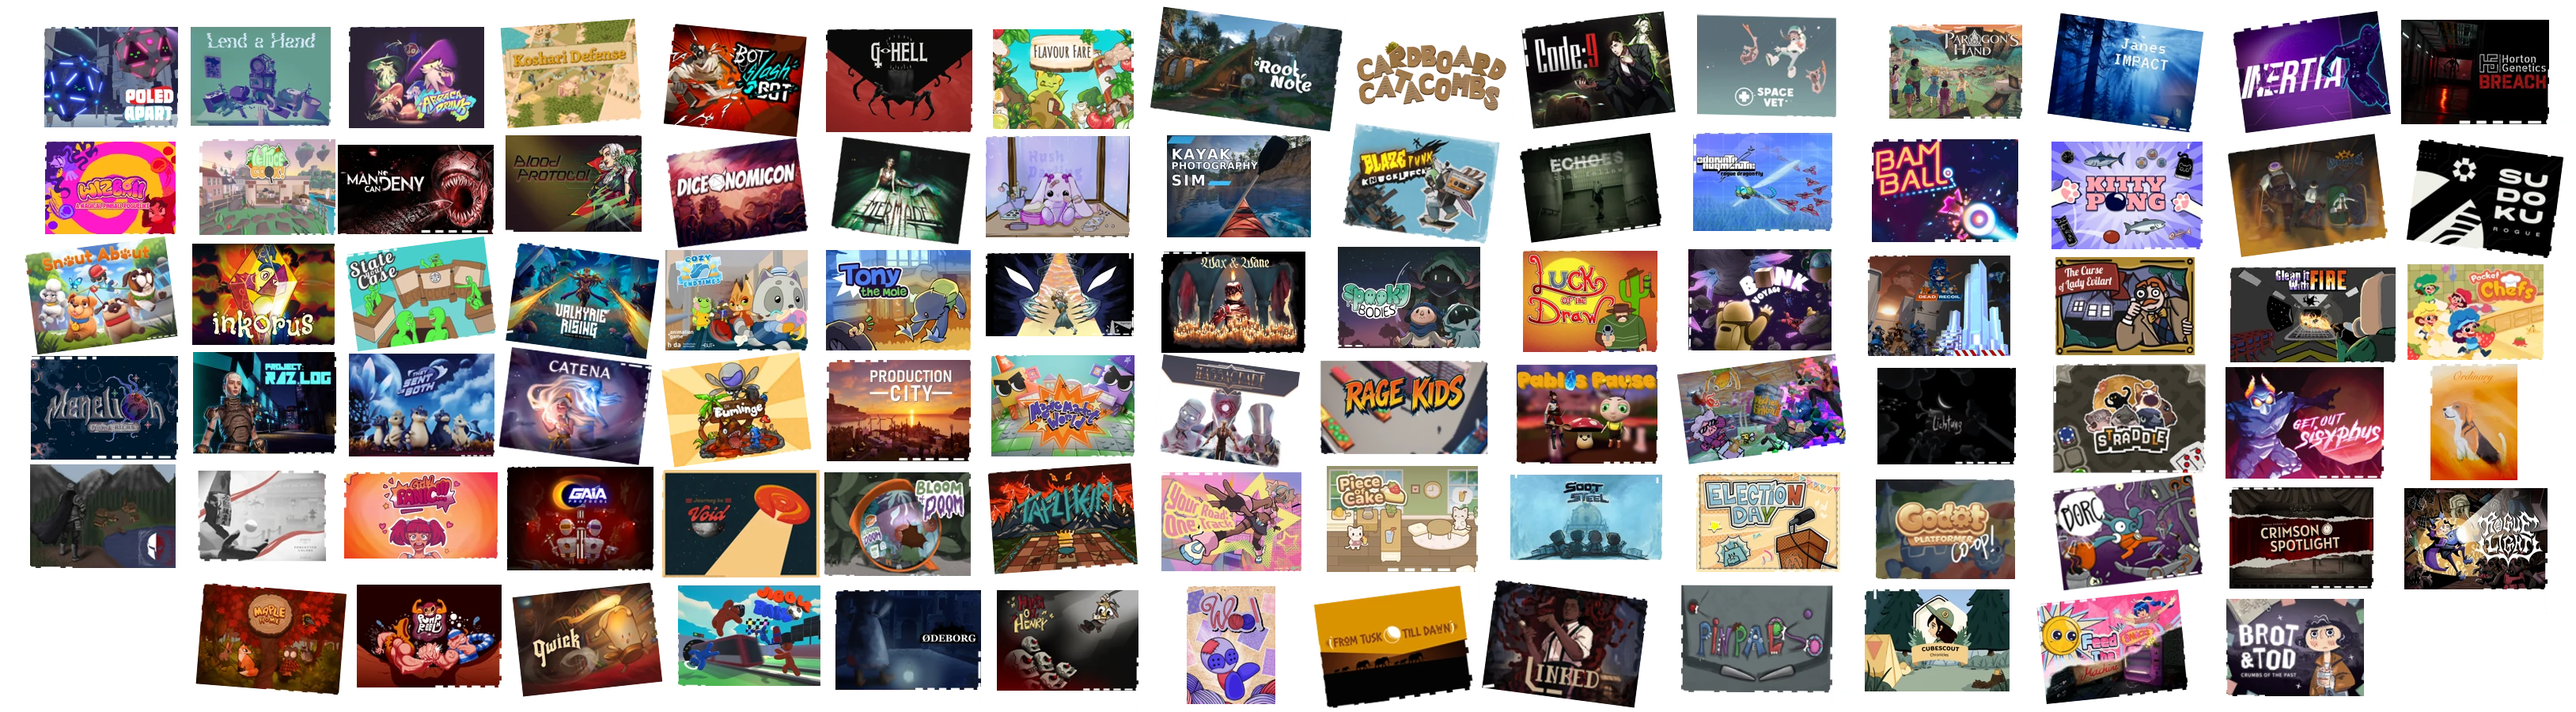
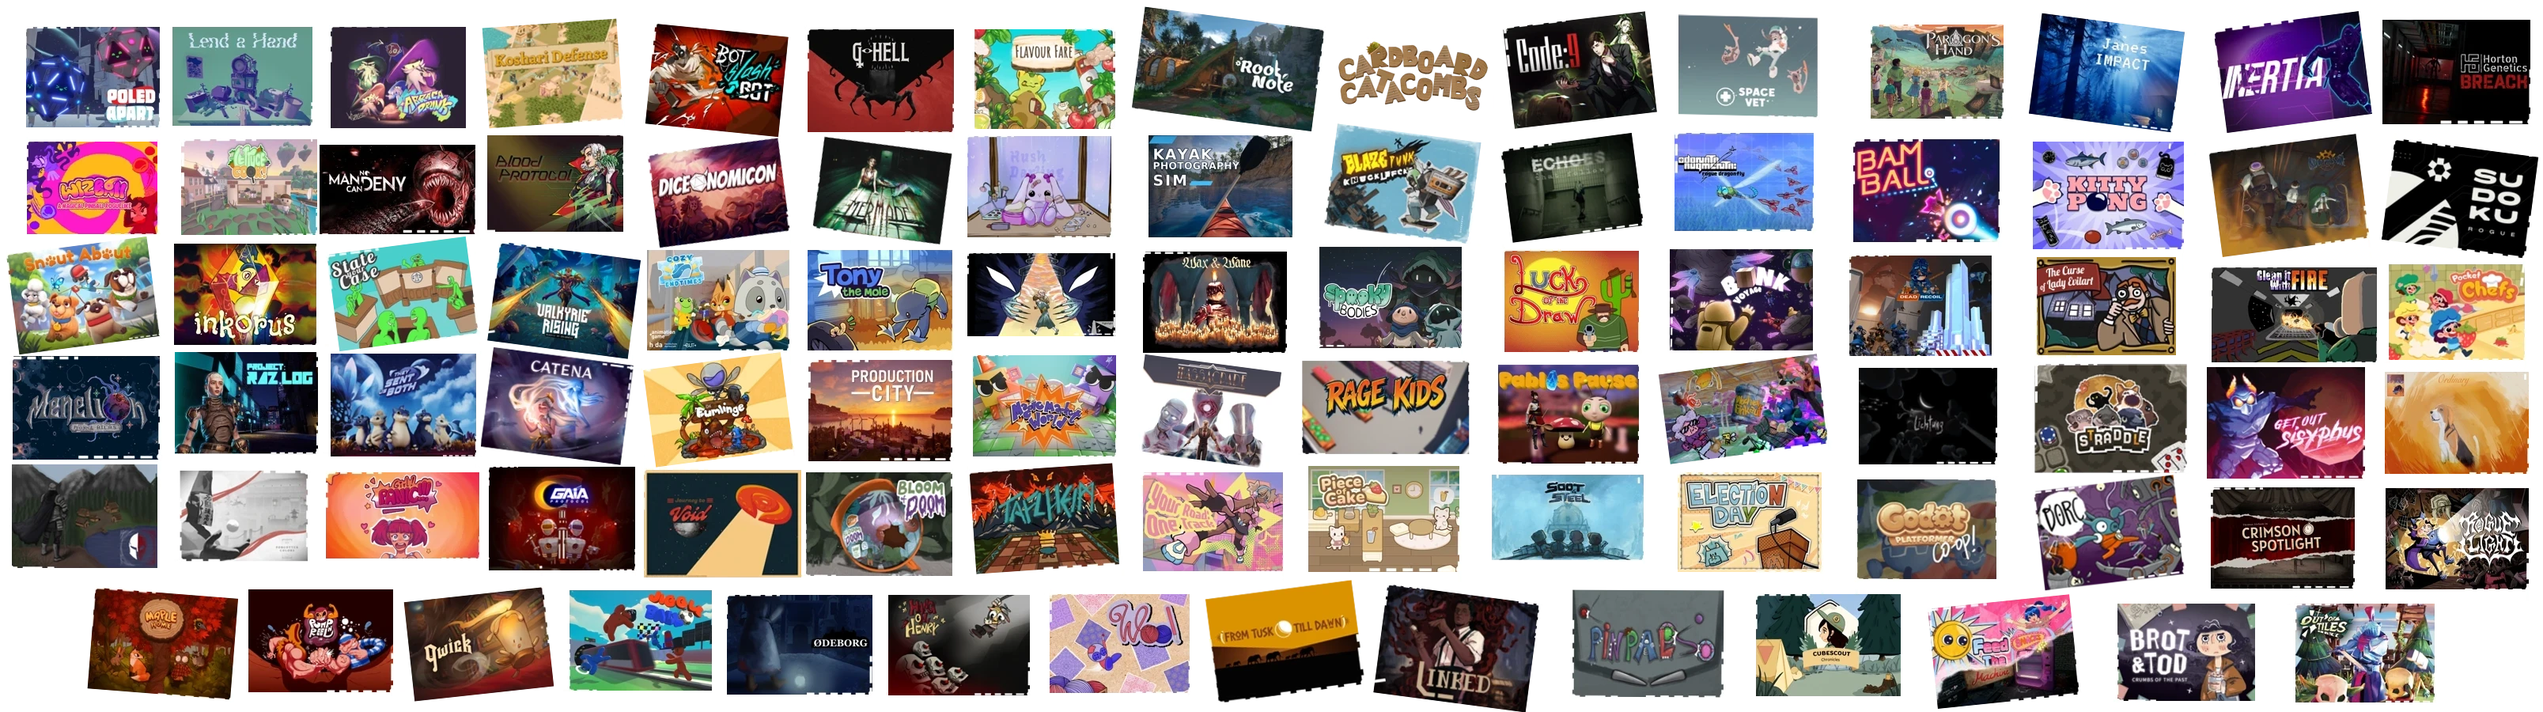
better hero image tiling

diff --git a/src/routes/+page.svelte b/src/routes/+page.svelte
@@ -145,7 +145,7 @@
         position: relative;
     }
     #hero::before {
-        --aspect-ratio: calc(3256 / 900);
+        --aspect-ratio: calc(3215 / 900);
         --width: calc(100vh * var(--aspect-ratio));
         background-image: url("/assets/2026/hero.webp");
         background-position: 0 0;
